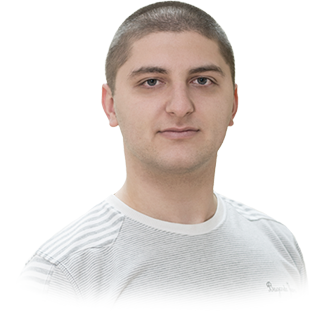
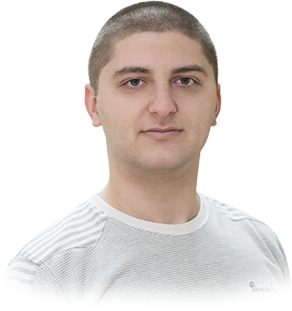
Added center container and centered part of about page

diff --git a/content/.vuepress/theme/styles/content.scss b/content/.vuepress/theme/styles/content.scss
@@ -43,34 +43,6 @@
   p, ul {
     margin-bottom: 2rem;
   }
-
-  .center-50 {
-    display: block;
-    width: 50%;
-    margin: 0 auto;
-
-    a {
-      display: block;
-    }
-  }
-
-  .image {
-    margin-left: -3rem;
-    margin-right: -3rem;
-
-    a {
-      display: block;
-    }
-
-    img {
-      width: 100%;
-    }
-
-    @media only screen and (max-width: $sm) {
-      margin-left: 0;
-      margin-right: 0;
-    }
-  }
 }
 
 .post-items {
@@ -160,5 +132,43 @@
     img {
       margin-left: 2rem;
     }
+  }
+}
+
+.center {
+  text-align: center;
+
+  h1, h2, h3, h4, h5, h6 {
+    left: 0;
+    padding-left: 0;
+    text-align: center;
+  }
+}
+
+.center-50 {
+  display: block;
+  width: 50%;
+  margin: 0 auto;
+
+  a {
+    display: block;
+  }
+}
+
+.image {
+  margin-left: -3rem;
+  margin-right: -3rem;
+
+  a {
+    display: block;
+  }
+
+  img {
+    width: 100%;
+  }
+
+  @media only screen and (max-width: $sm) {
+    margin-left: 0;
+    margin-right: 0;
   }
 }

diff --git a/content/.vuepress/config.js b/content/.vuepress/config.js
@@ -12,6 +12,11 @@ module.exports = {
             ga: 'UA-29469126-4'
         }],
         ['container', {
+            type: 'center',
+            before: `<div class="center">`,
+            after: `</div>`,
+        }],
+        ['container', {
             type: 'center-50',
             before: `<div class="center-50">`,
             after: `</div>`,

diff --git a/content/about/index.md b/content/about/index.md
@@ -2,11 +2,11 @@
 type: page
 ---
 
+::: center
 <h1>I am Ivan Dokov</h1>
 
-Web developer since 2006. 
+Web developer since 2006.
 
-::: center-50
 ![Ivan Dokov](./IvanDokov.png "Ivan Dokov")
 :::
 
